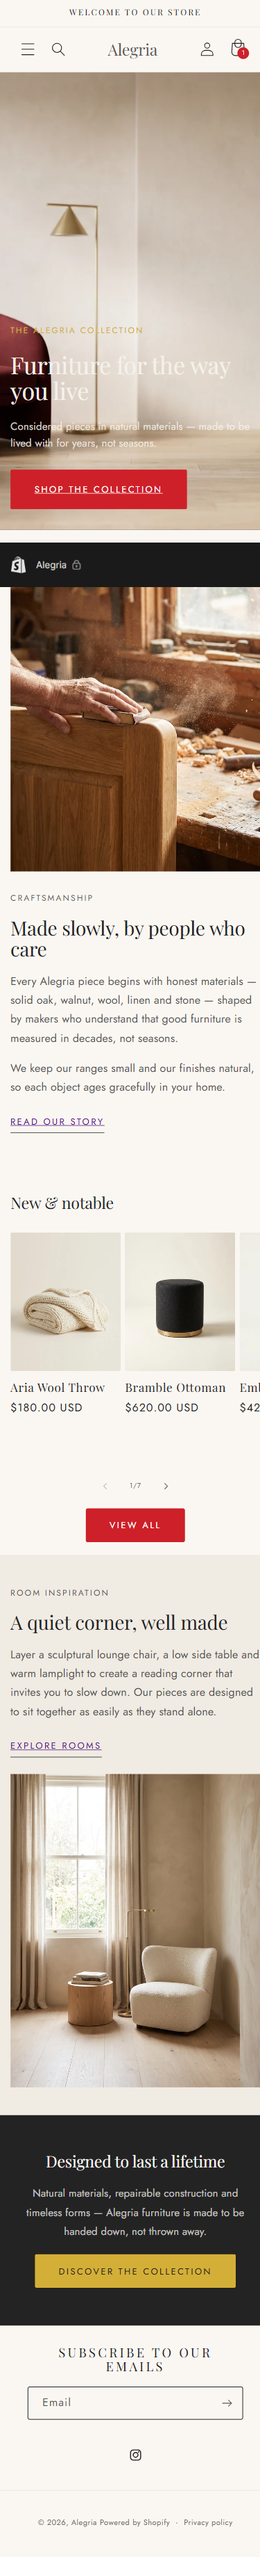
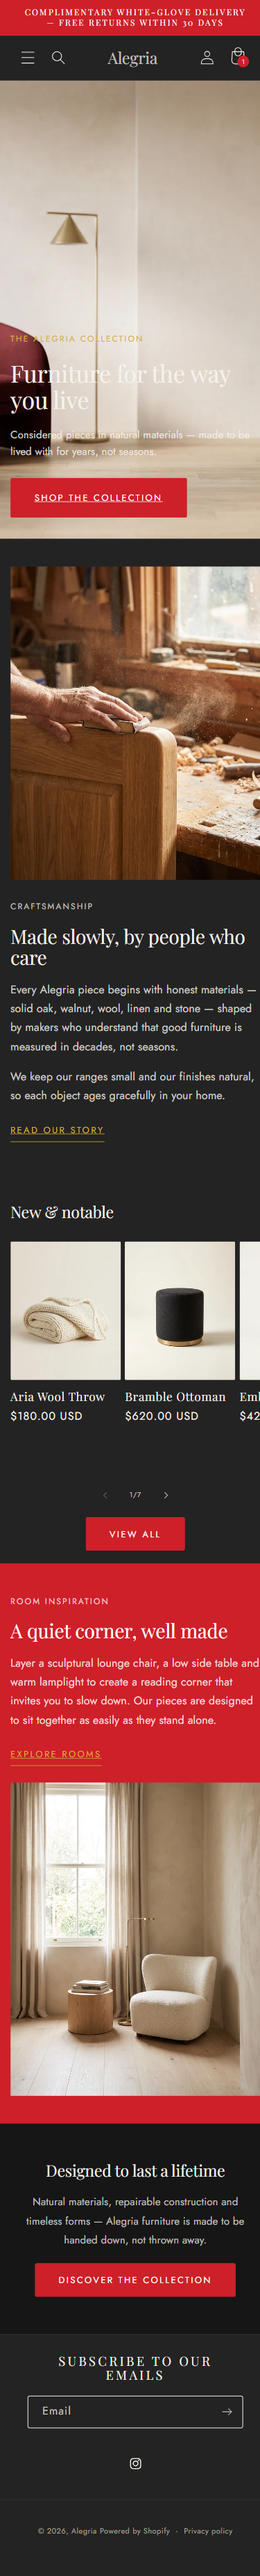
feat: dark charcoal/crimson/gold palette, 3-image galleries, About+Rooms pages, SEO + a11y fixes

diff --git a/theme/assets/alegria.css b/theme/assets/alegria.css
@@ -1,16 +1,17 @@
 /* ==========================================================================
    Alegria — brand design system
-   Crimson · Charcoal · Metallic Gold, layered over the Dawn base theme.
+   Charcoal base (~60%) · Crimson (~30%) · Metallic Gold accents (~10%).
    ========================================================================== */
 
 :root {
-  --alegria-ivory: #faf7f2;
-  --alegria-sand: #f0ebe3;
-  --alegria-line: #e6e0d6;
-  --alegria-stone: #6b6660;
   --alegria-charcoal: #232323;
+  --alegria-charcoal-deep: #161616;
+  --alegria-ivory: #f5f1ea;
   --alegria-crimson: #ce2029;
+  --alegria-crimson-deep: #a8161e;
   --alegria-gold: #d4af37;
+  --alegria-muted: #a9a39a;
+  --alegria-line: rgba(245, 241, 234, 0.16);
 
   --alegria-space-section: clamp(4rem, 8vw, 9rem);
   --alegria-tracking-wide: 0.18em;
@@ -21,8 +22,8 @@
    -------------------------------------------------------------------------- */
 
 body {
-  background-color: var(--alegria-ivory);
-  color: var(--alegria-charcoal);
+  background-color: var(--alegria-charcoal);
+  color: var(--alegria-ivory);
   letter-spacing: 0.01em;
   -webkit-font-smoothing: antialiased;
   text-rendering: optimizeLegibility;
@@ -50,7 +51,7 @@ h5,
   font-weight: 500;
   letter-spacing: var(--alegria-tracking-wide);
   text-transform: uppercase;
-  color: var(--alegria-crimson);
+  color: var(--alegria-gold);
   margin-bottom: 1.6rem;
 }
 
@@ -73,7 +74,7 @@ h5,
 }
 
 /* --------------------------------------------------------------------------
-   Buttons — squared, crimson, generous tracking
+   Buttons — squared; crimson primary, gold secondary accents
    -------------------------------------------------------------------------- */
 
 .button,
@@ -89,15 +90,15 @@ h5,
 }
 
 .button:not([disabled]):hover {
-  background-color: var(--alegria-charcoal);
-  border-color: var(--alegria-charcoal);
-  color: var(--alegria-ivory);
+  background-color: var(--alegria-crimson-deep);
+  border-color: var(--alegria-crimson-deep);
+  color: #ffffff;
 }
 
 .button--secondary:not([disabled]):hover {
-  background-color: var(--alegria-crimson);
-  border-color: var(--alegria-crimson);
-  color: #ffffff;
+  background-color: var(--alegria-gold);
+  border-color: var(--alegria-gold);
+  color: var(--alegria-charcoal);
 }
 
 /* --------------------------------------------------------------------------
@@ -106,7 +107,7 @@ h5,
 
 .header-wrapper {
   border-bottom: 1px solid var(--alegria-line);
-  background-color: var(--alegria-ivory);
+  background-color: var(--alegria-charcoal);
 }
 
 .header {
@@ -121,7 +122,7 @@ h5,
 }
 
 .header__menu-item:hover span {
-  text-decoration-color: var(--alegria-crimson);
+  text-decoration-color: var(--alegria-gold);
 }
 
 .announcement-bar__message {
@@ -131,7 +132,7 @@ h5,
 }
 
 /* --------------------------------------------------------------------------
-   Product cards — restrained, editorial
+   Product cards
    -------------------------------------------------------------------------- */
 
 .card__heading {
@@ -141,7 +142,7 @@ h5,
 }
 
 .card__heading a:hover {
-  color: var(--alegria-crimson);
+  color: var(--alegria-gold);
 }
 
 .card__information {
@@ -150,6 +151,7 @@ h5,
 
 .card-information__text {
   font-size: 1.3rem;
+  color: var(--alegria-muted);
 }
 
 .card__media img,
@@ -206,7 +208,7 @@ h5,
 .alegria-editorial__body p {
   font-size: 1.6rem;
   line-height: 1.7;
-  color: rgba(var(--color-foreground), 0.78);
+  color: rgba(var(--color-foreground), 0.82);
   max-width: 56ch;
 }
 
@@ -216,13 +218,34 @@ h5,
   font-size: 1.3rem;
   letter-spacing: var(--alegria-tracking-wide);
   text-transform: uppercase;
-  border-bottom: 1px solid var(--alegria-charcoal);
+  border-bottom: 1px solid var(--alegria-gold);
   padding-bottom: 0.4rem;
+  color: var(--alegria-gold);
 }
 
 .alegria-editorial__link:hover {
-  color: var(--alegria-crimson);
-  border-color: var(--alegria-crimson);
+  color: var(--alegria-ivory);
+  border-color: var(--alegria-ivory);
+}
+
+/* On crimson/dark bands, keep editorial text at full-strength foreground */
+.color-scheme-2 .alegria-editorial__eyebrow,
+.color-scheme-2 .alegria-editorial__link,
+.color-scheme-3 .alegria-editorial__eyebrow,
+.color-scheme-3 .alegria-editorial__link {
+  color: #ffffff;
+  border-color: rgba(255, 255, 255, 0.55);
+}
+
+.color-scheme-2 .alegria-editorial__link:hover,
+.color-scheme-3 .alegria-editorial__link:hover {
+  color: #ffffff;
+  border-color: #ffffff;
+}
+
+.color-scheme-2 .alegria-editorial__body p,
+.color-scheme-3 .alegria-editorial__body p {
+  color: rgba(255, 255, 255, 0.95);
 }
 
 /* --------------------------------------------------------------------------
@@ -242,7 +265,7 @@ h5,
 .footer__copyright {
   font-size: 1.2rem;
   letter-spacing: 0.04em;
-  color: var(--alegria-stone);
+  color: var(--alegria-muted);
 }
 
 /* --------------------------------------------------------------------------

diff --git a/README.md b/README.md
@@ -15,10 +15,12 @@ This is a fictional brand — there are **no real products, customers or payment
 - **Reusable editorial section** (`sections/alegria-editorial.liquid`) — split image/text, image side configurable.
 - **Specifications section** (`sections/alegria-product-specs.liquid`) — renders product **metafields** and a linked **metaobject** (Material) on the product page, handling missing values gracefully.
 - **16 products across 5 collections** with real options/variants, variant-aware pricing and images.
+- **3-image product galleries** — a studio hero, a styled in-room lifestyle shot and a material detail shot per product.
+- **Our Story & Room Guides** pages that back the editorial content.
 - **Native collection filtering & sorting** (Shopify Search & Discovery) with a mobile filter drawer.
 - **Ajax cart drawer** (Dawn) — add, update, remove, live count and subtotal.
 - **Journal** blog with three editorial articles.
-- **Brand design system** — Crimson `#CE2029`, Charcoal `#232323`, Metallic Gold `#D4AF37` on an ivory base; Playfair Display headings + Jost body.
+- **Brand design system** — a charcoal-led palette (charcoal ≈60% / crimson ≈30% / gold ≈10%): Charcoal `#232323`, Crimson `#CE2029`, Metallic Gold `#D4AF37`; Playfair Display headings + Jost body.
 - **AI-generated imagery** (Gemini) uploaded to Shopify Files.
 
 | Product page | Mobile |
@@ -81,9 +83,9 @@ shopify theme push --theme "Alegria" --store alegria-desoau8q.myshopify.com
 
 - **Theme Check:** 0 errors (Dawn base warnings only).
 - **axe-core:** homepage, collection and product pages **clean** (only the admin preview-bar iframe is flagged, which does not exist on the live store).
-- **Lighthouse (mobile, live theme):** Accessibility **97** · SEO **92** · Best Practices **73** · Performance **54** (FCP 4.8s, LCP 8.2s, CLS 0).
+- **Lighthouse (mobile, live theme):** Accessibility **100** · SEO **92** · Best Practices **73** · Performance **63**.
   - Performance / Best Practices are dominated by **Shopify platform scripts** (Web Pixels, analytics, account) rather than the theme; the hero image is prioritised and below-the-fold images lazy-loaded.
-- Verified: variant selection (price + availability), add-to-cart, collection filtering/sorting, navigation, journal, responsive layout (no horizontal overflow at 390px).
+- Verified: variant selection (price + availability), add-to-cart, collection filtering/sorting, navigation, journal, pages, 3-image galleries, responsive layout (no horizontal overflow at 390px).
 
 ## Known limitations
 

diff --git a/PROJECT.md b/PROJECT.md
@@ -83,3 +83,12 @@ Crimson `#CE2029`, Charcoal `#232323`, Metallic Gold `#D4AF37` on an ivory base 
 - **Theme published** as the live theme (approved); original Horizon kept as an unpublished backup.
 - Live URL: https://alegria-desoau8q.myshopify.com/ (password-protected).
 - Store settings otherwise unchanged; no credentials committed.
+
+## Post-review refinements
+
+- **Palette rebalanced** to charcoal ≈60% / crimson ≈30% / gold ≈10% — a dark, bold direction. Five colour schemes updated; announcement bar rebranded (crimson).
+- **Broken links fixed:** created **Our Story** (`/pages/about`) and **Room Guides** (`/pages/rooms`) pages and repointed the editorial CTAs.
+- **SEO:** set the shop homepage title/description (`global.title_tag`/`description_tag` shop metafields) and unique meta descriptions for all 16 products, 6 collections and both pages.
+- **Product galleries:** generated **32 additional AI images** (a styled in-room lifestyle shot + a material detail shot per product) → every product now has a **3-image gallery**.
+- **Accessibility:** fixed contrast on the crimson band (white text), product-spec labels (gold) and care text; the homepage, collection and product pages are **axe-clean** (only the admin preview-bar iframe is flagged).
+- **Lighthouse (mobile, live):** Accessibility **100** · SEO **92** · Best Practices **73** · Performance **63**.
